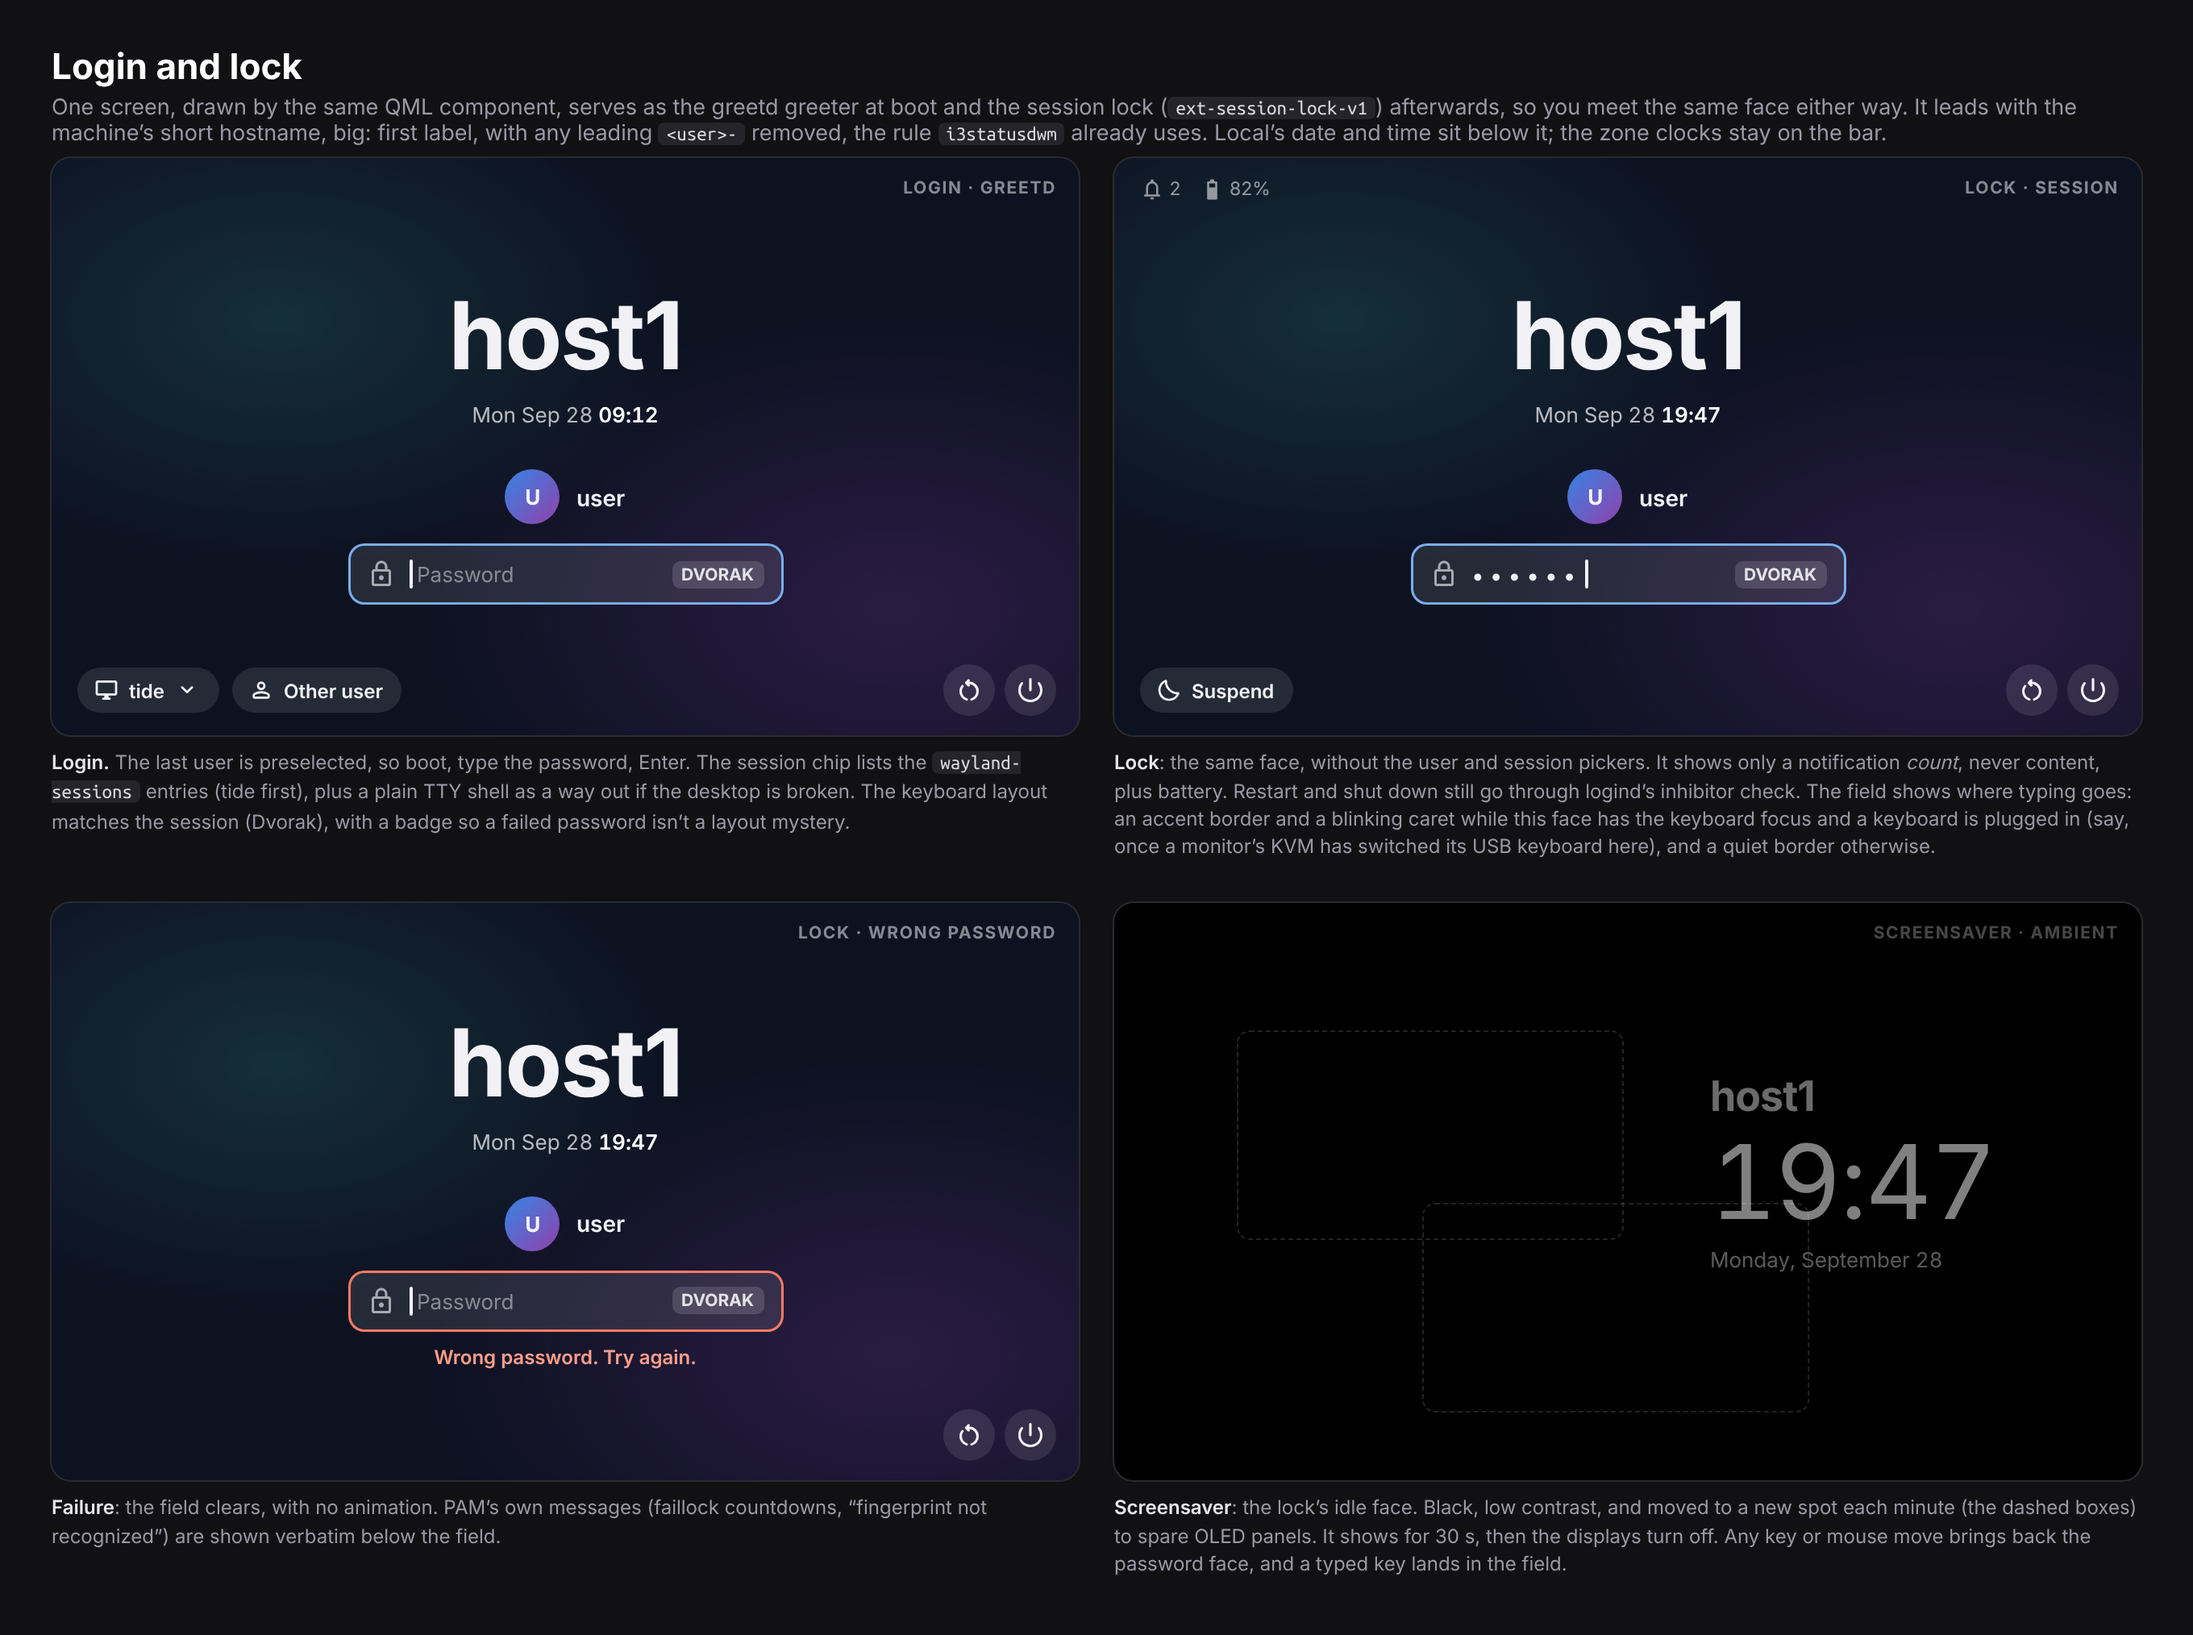
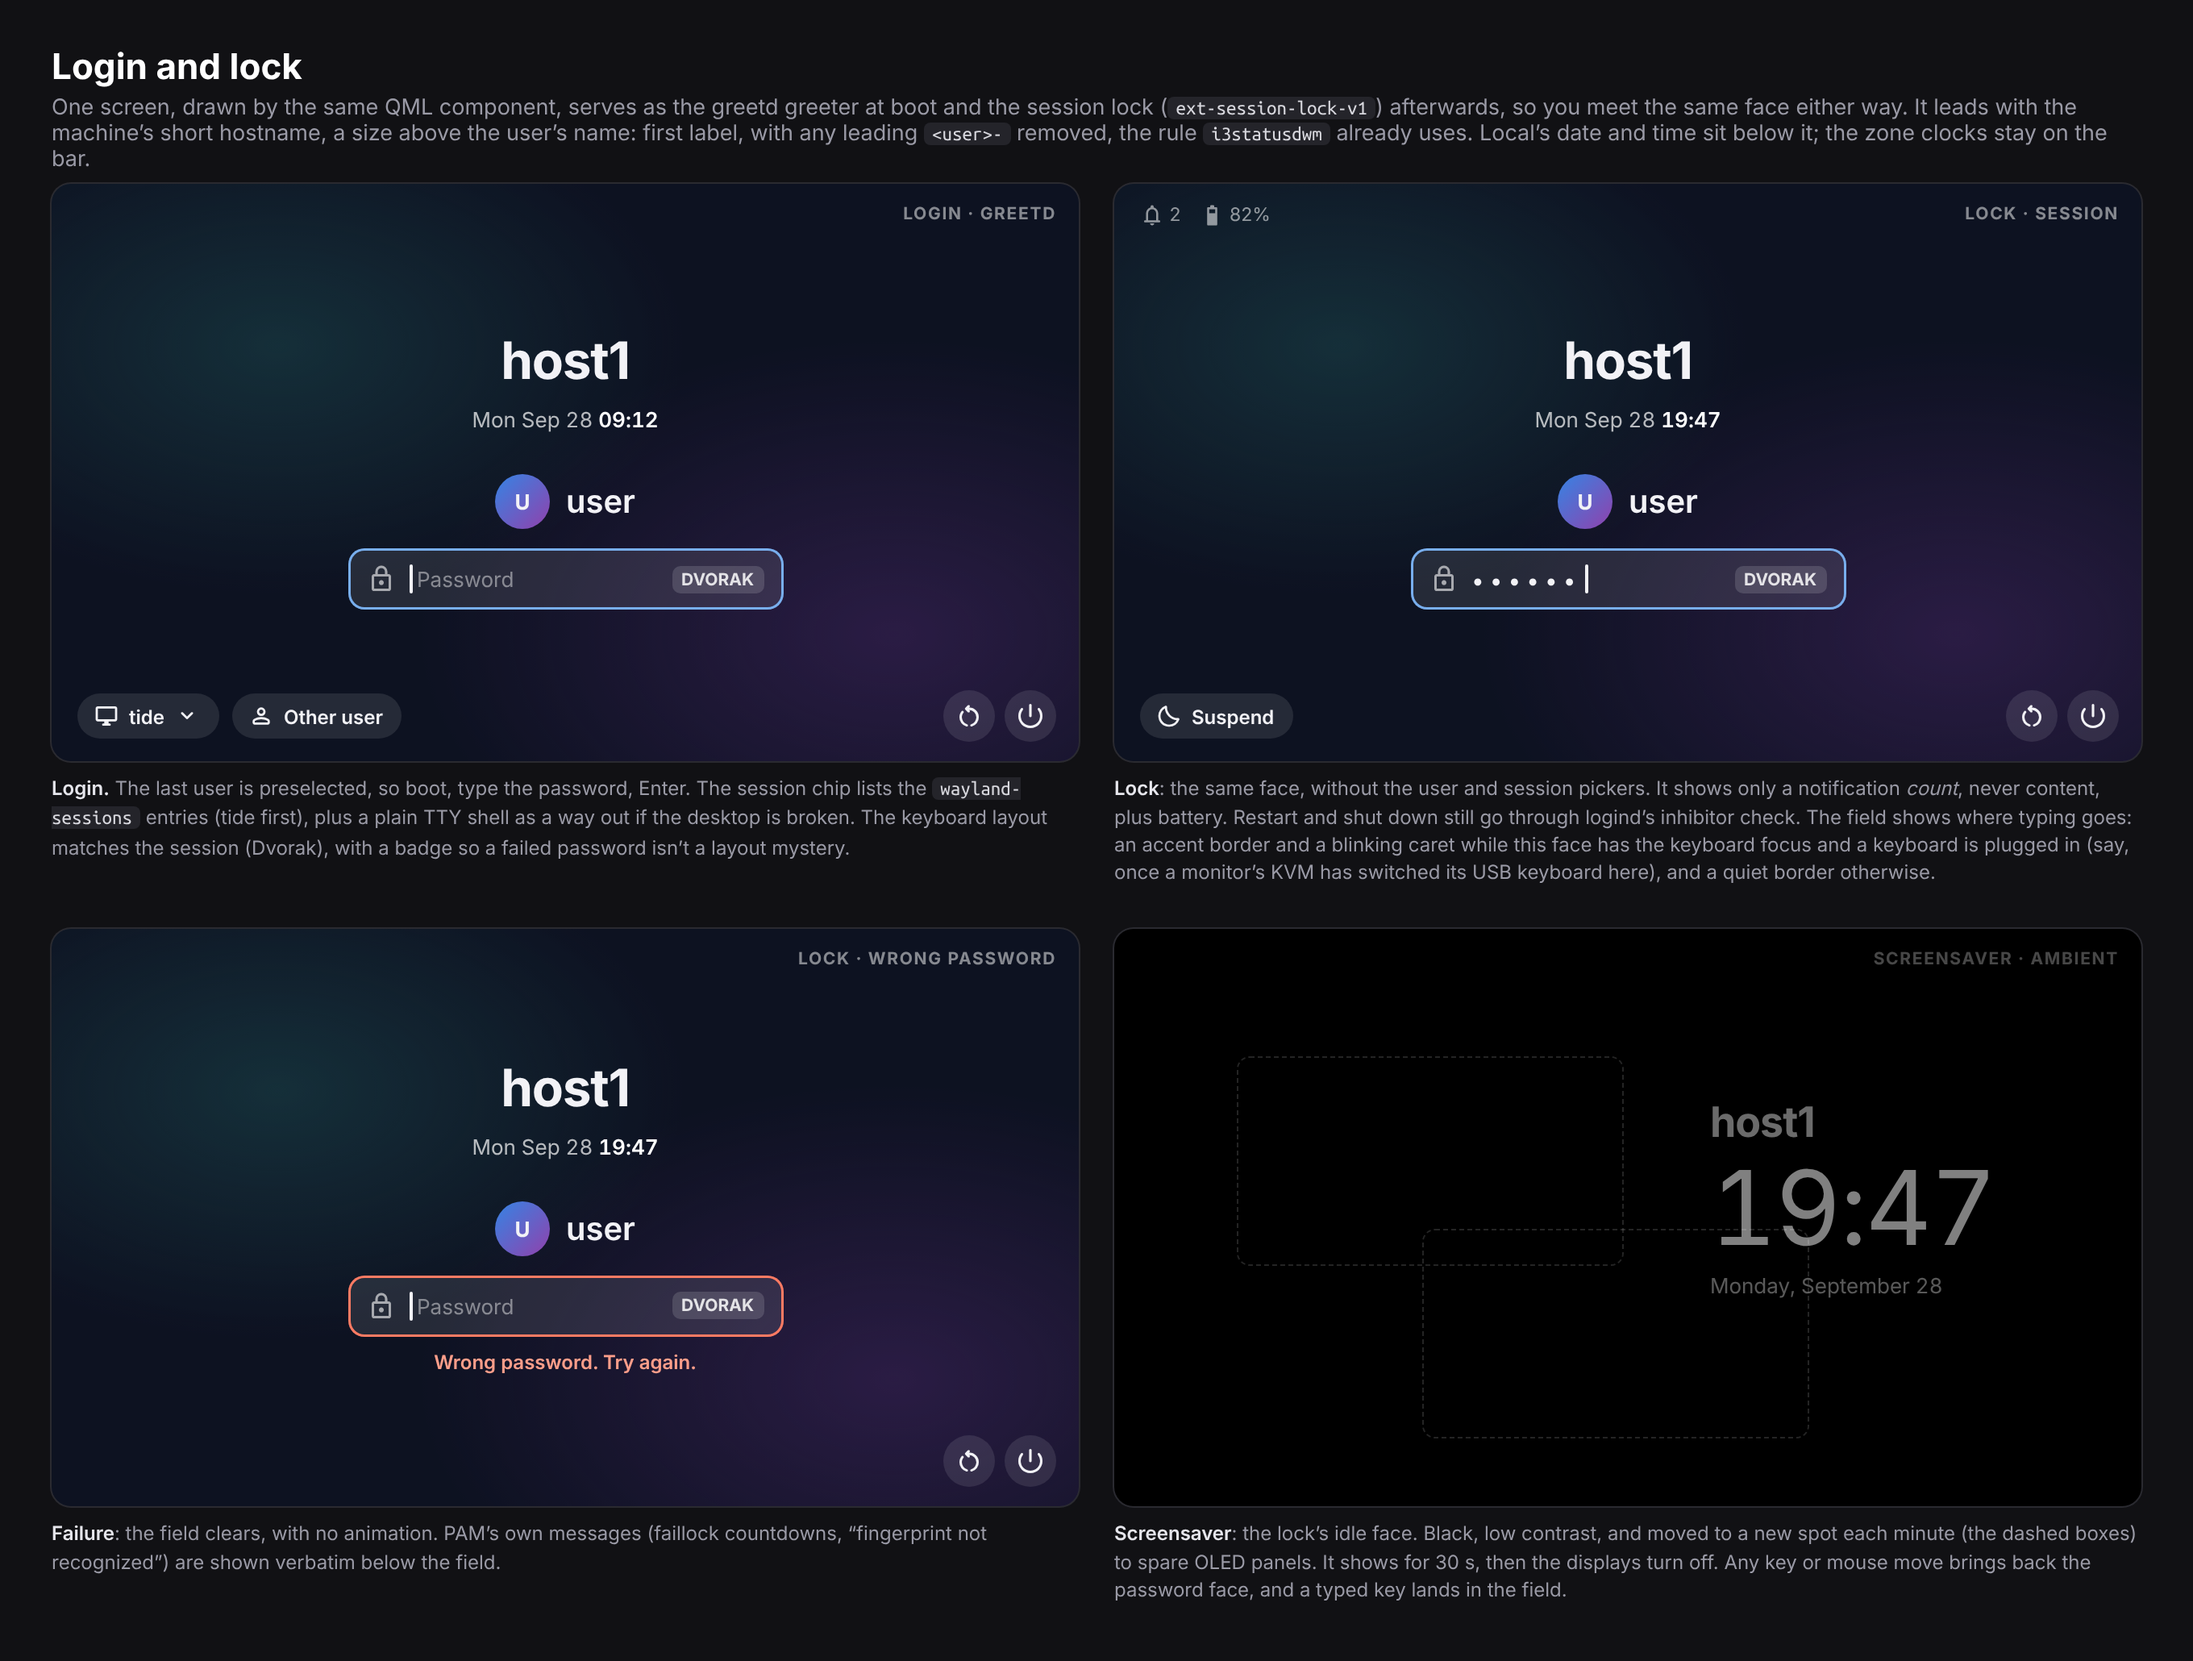
Shrink the hostname on the lock and login screens to suit the user's name
The lock and login face led with the hostname at 58 px over the user's
name at 14 px, four times the size. The hostname is 32 px now and the
name 20 px, so neither dwarfs the other. The screensaver face keeps its
own sizes. The lock mock and SPEC say so.

Claude-Session: https://claude.ai/code/session_01366dDoHuZe4tSWrV112EuB

diff --git a/docs/mocks/lock.html b/docs/mocks/lock.html
@@ -25,13 +25,13 @@
   }
   .face::before { content: ''; position: absolute; inset: 0; backdrop-filter: blur(0); background: rgba(8, 10, 18, .35); }
   .face > * { position: relative; }
-  .host { font-size: 58px; font-weight: 700; letter-spacing: -.02em; line-height: 1; }
+  .host { font-size: 32px; font-weight: 700; letter-spacing: -.02em; line-height: 1; }
   .fclocks { display: flex; gap: 14px; margin-top: 12px; font-feature-settings: 'tnum' 1; font-size: 13px; color: rgba(255,255,255,.7); }
   .fclocks b { font-weight: 600; color: #fff; }
   .fclocks .tz { font-size: 10px; font-weight: 700; letter-spacing: .05em; margin-right: 4px; color: rgba(255,255,255,.55); }
   .who { display: flex; align-items: center; gap: 10px; margin-top: 26px; }
   .av { width: 34px; height: 34px; border-radius: 50%; background: linear-gradient(135deg, #3584e4, #9141ac); display: flex; align-items: center; justify-content: center; font-weight: 700; }
-  .who .n { font-weight: 600; font-size: 14px; }
+  .who .n { font-weight: 600; font-size: 20px; }
   .pw { margin-top: 12px; width: 270px; height: 38px; border-radius: 10px; background: rgba(255,255,255,.1); box-shadow: inset 0 0 0 1px rgba(255,255,255,.16); display: flex; align-items: center; padding: 0 12px; gap: 8px; font-size: 14px; letter-spacing: .25em; }
   .pw .ms { font-size: 18px; color: rgba(255,255,255,.6); letter-spacing: 0; }
   .pw .kb { margin-left: auto; letter-spacing: 0; font-size: 10.5px; font-weight: 700; background: rgba(255,255,255,.14); border-radius: 5px; padding: 2px 6px; color: rgba(255,255,255,.85); }
@@ -65,7 +65,7 @@
 <body class="sheet" data-width="1360" data-scale="2">
 
 <h1>Login and lock</h1>
-<p class="lede">One screen, drawn by the same QML component, serves as the greetd greeter at boot and the session lock (<code>ext-session-lock-v1</code>) afterwards, so you meet the same face either way. It leads with the machine’s short hostname, big: first label, with any leading <code>&lt;user&gt;-</code> removed, the rule <code>i3statusdwm</code> already uses. Local’s date and time sit below it; the zone clocks stay on the bar.</p>
+<p class="lede">One screen, drawn by the same QML component, serves as the greetd greeter at boot and the session lock (<code>ext-session-lock-v1</code>) afterwards, so you meet the same face either way. It leads with the machine’s short hostname, a size above the user’s name: first label, with any leading <code>&lt;user&gt;-</code> removed, the rule <code>i3statusdwm</code> already uses. Local’s date and time sit below it; the zone clocks stay on the bar.</p>
 
 <div class="faces">
   <div>

diff --git a/shell/LockFace.qml b/shell/LockFace.qml
@@ -360,7 +360,7 @@ Item {
                     text: face.hostname
                     color: "#f2f2f6"
                     font.family: "Inter"
-                    font.pixelSize: 58
+                    font.pixelSize: 32
                     font.weight: Font.Bold
                 }
 
@@ -382,7 +382,7 @@ Item {
                     text: face.user
                     color: "#f2f2f6"
                     font.family: "Inter"
-                    font.pixelSize: 14
+                    font.pixelSize: 20
                     font.weight: Font.DemiBold
                 }
 

diff --git a/SPEC.md b/SPEC.md
@@ -2537,7 +2537,8 @@ talk, a demo, or a meeting room's screen.
 - **Same face as the lock.** Login and lock are one QML component with two
   modes ([`lock.png`](docs/mocks/lock.png)): `shell/LockFace.qml`.
 - **Hostname.** It leads with the short hostname: the first label, with a
-  leading `<user>-` removed, the same rule as `i3statusdwm`.
+  leading `<user>-` removed, the same rule as `i3statusdwm`. It's only a
+  size above the user's name (32 px to 20), so neither dwarfs the other.
 - **Local's date and time** sit below the hostname. No zone clocks: the
   bar has them a click away, and the login and lock faces stay simple
   (maintainer, 2026-10-05).
